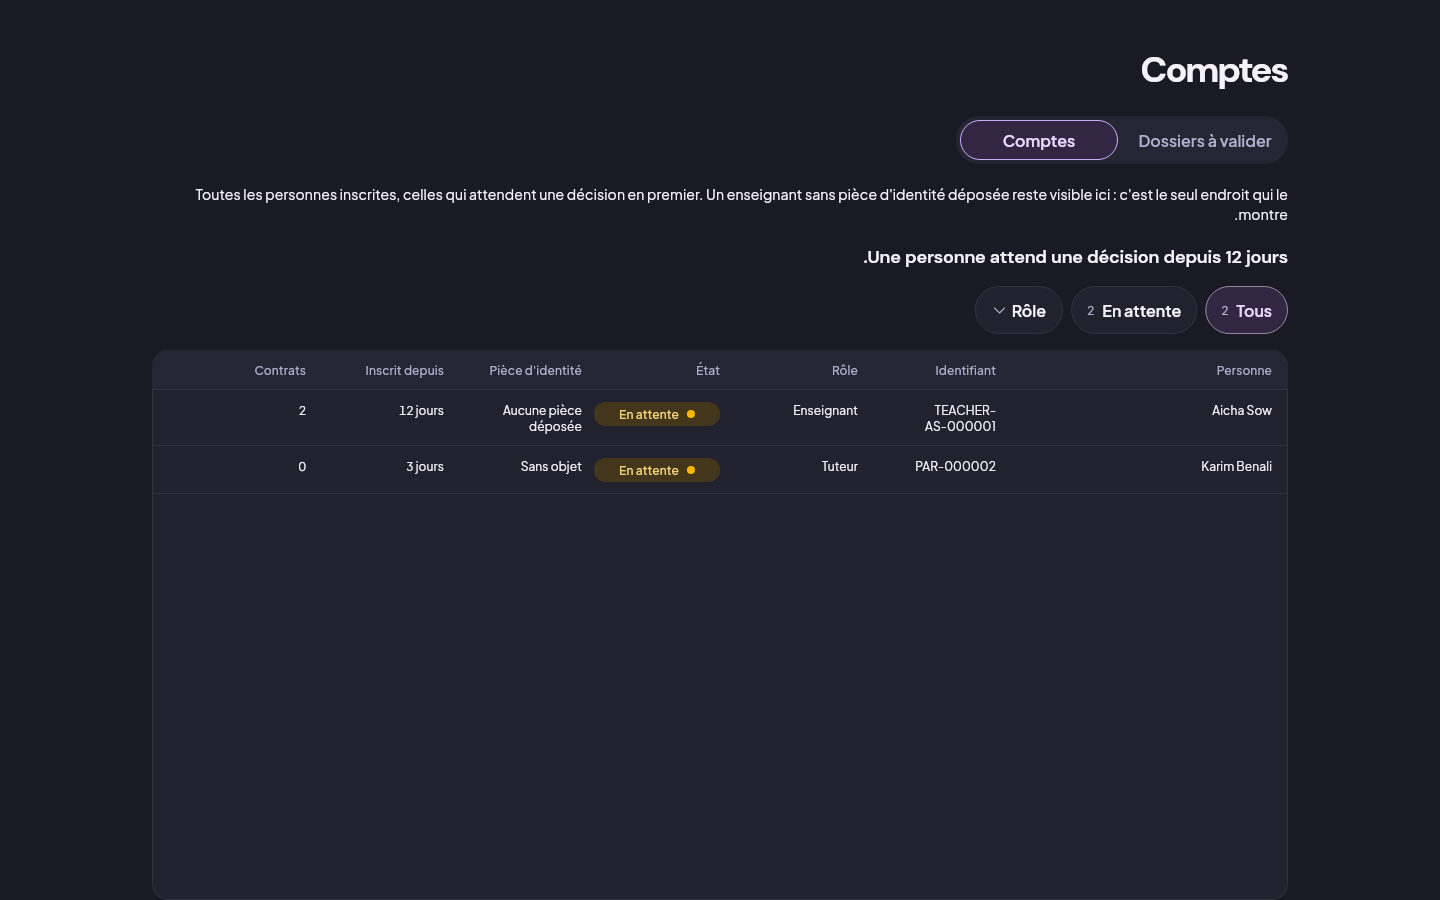
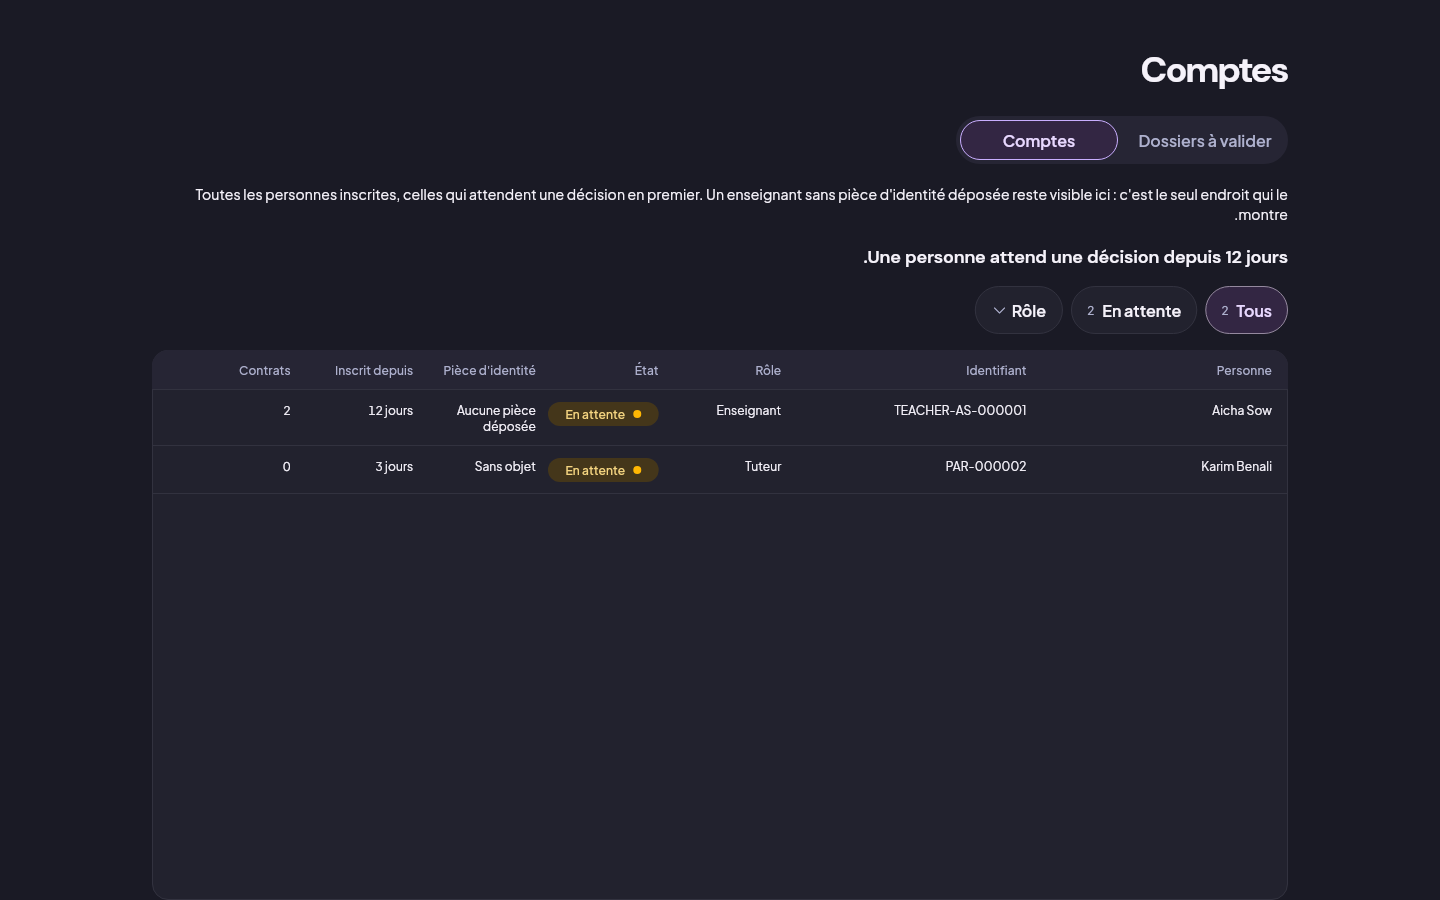
DUREE-INSECABLE-5 (reprise) : tableau replie en cartes a texte agrandi, captures et fiche
- DataCollection : a 150 % de texte et plus (AppGabarit.seuilTexteColonne),
  la collection se lit en cartes ; a 1440 px texte x2, le tableau coupait
  « Enseigna / nt » et tronquait ses en-tetes. Test qui echoue sur
  l'ancien code.
- Captures Comptes 1440 regenerees (identifiant sur une ligne) et
  nouvelle capture 1440 texte x2 sombre RTL ; script archive.
- Fiche : reprise de la relecture adverse, decisions par delegation le
  09/10 (DIR-REP-1).

Claude-Session: https://claude.ai/code/session_01T5oLMxAVmTuD5MY5MPupFc

diff --git a/test/capture/duree_insecable5_capture_test.dart b/test/capture/duree_insecable5_capture_test.dart
@@ -10,6 +10,11 @@
 // - Qualite, repliee en cartes dans le defilement de la page : 390 clair LTR
 //   et 320 texte x2 sombre RTL. Avant DUREE-INSECABLE-5, la page levait
 //   « Vertical viewport was given unbounded height » et ne montrait rien.
+// - Reprise : Comptes a 1440, l'identifiant « TEACHER-AS-000001 » tient sur
+//   une ligne (colonne de deux parts, pas de coupure a ses traits d'union
+//   tant qu'il tient). A 1440 texte x2 sombre RTL, la collection se replie
+//   en cartes : en tableau, « Enseigna / nt » se coupait et les en-tetes se
+//   tronquaient.
 import 'package:flutter/material.dart';
 import 'package:flutter_localizations/flutter_localizations.dart';
 import 'package:flutter_riverpod/flutter_riverpod.dart';
@@ -243,6 +248,28 @@ void main() {
             await capturer(tester, nom);
           });
         }
+      }
+
+      {
+        final _Vue v = _vue(1440, 900, 2, ThemeMode.dark, TextDirection.rtl);
+        final String nom = _nom('comptes_texte_agrandi', v);
+        testWidgets(nom, (WidgetTester tester) async {
+          fixerVueCapture(tester, Size(v.largeur, v.hauteur), 1);
+          await tester.pumpWidget(
+            _hote(
+              v,
+              ecran: const ComptesPage(),
+              surcharges: <Override>[
+                ..._comptes,
+                serviceReseauProvider.overrideWithValue(FauxServiceReseau()),
+              ],
+            ),
+          );
+          await stabiliser(tester);
+          expect(find.textContaining('TEACHER'), findsWidgets);
+          expect(tester.takeException(), isNull);
+          await capturer(tester, nom);
+        });
       }
 
       for (final _Vue v in <_Vue>[

diff --git a/test/accessibilite/duree_insecable_5_test.dart b/test/accessibilite/duree_insecable_5_test.dart
@@ -289,6 +289,24 @@ void main() {
     });
   }
 
+  // Reprise : a 1440 px et texte x2, le tableau coupait ses mots
+  // (« Enseigna / nt ») et tronquait ses en-tetes : il se replie en cartes.
+  testWidgets('Comptes, 1440 px, texte x2 : repliee en cartes, sans en-tete '
+      'de tableau', (WidgetTester tester) async {
+    tester.view.physicalSize = const Size(1440, 900);
+    tester.view.devicePixelRatio = 1;
+    tester.platformDispatcher.textScaleFactorTestValue = 2;
+    addTearDown(tester.view.reset);
+    addTearDown(tester.platformDispatcher.clearTextScaleFactorTestValue);
+    await tester.pumpWidget(
+      _hote(const ComptesPage(), _comptes, sens: TextDirection.rtl),
+    );
+    await tester.pumpAndSettle();
+    expect(tester.takeException(), isNull);
+    expect(find.text(t.admin.comptes.colonneIdentifiant), findsNothing);
+    expect(find.textContaining('TEACHER-AS-000001'), findsOneWidget);
+  });
+
   testWidgets('Qualite, 390 px : la collection repliee en cartes dans le '
       'defilement de la page s affiche (plus de hauteur non bornee)', (
     WidgetTester tester,

diff --git a/lib/core/widgets/data_collection.dart b/lib/core/widgets/data_collection.dart
@@ -146,7 +146,15 @@ class DataCollection<T> extends StatelessWidget {
   }
 
   Widget _construire(BuildContext context, {required bool integree}) {
-    final bool tableau = AppGabarit.de(context) == Gabarit.desktop;
+    // DUREE-INSECABLE-5 (reprise) : a texte agrandi (150 % et plus, le
+    // seuil des choix en colonnes), un tableau de sept colonnes coupait ses
+    // mots (« Enseigna / nt ») et tronquait ses en-tetes ; la collection se
+    // replie alors en cartes, comme sous le seuil desktop (decide par
+    // delegation le 09/10).
+    final bool tableau =
+        AppGabarit.de(context) == Gabarit.desktop &&
+        MediaQuery.textScalerOf(context).scale(16) / 16 <
+            AppGabarit.seuilTexteColonne;
 
     if (!tableau) {
       return _Defilement<T>(

diff --git a/docs/current/REVUE-DIRECTEUR-2026-10.md b/docs/current/REVUE-DIRECTEUR-2026-10.md
@@ -474,3 +474,16 @@ Décidé par délégation le 09/10 (DIR-REP-1) :
 - la garde, prudente, signale toute valeur ancrée ajoutée à une collection ou écrite dans un tampon, même si elle en serait la première ;
 - aucun libellé nouveau ni modifié.
 Recensé, non repris ici (hors du périmètre de l'étape) : le zoom « 150 % » de `tc_mushaf` reste sécable (zone interdite, déjà consigné par DUREE-INSECABLE-4) ; dans les tableaux d'administration en RTL avec des données françaises, le point final d'un nom (« Sofia B. ») et des descriptions se place au début (« .Sofia B »), comme ailleurs avant COUPE-MOTS-3b (relevé sur les captures sombres RTL).
+
+### DUREE-INSECABLE-5, reprise (09/10/2026) : relecture adverse refusée, quatre points levés
+- **Garde indépendante du nom et du type écrit** (`test/support/garde_ancres.dart`, `_suivreChamp`, `_peutEtre`) : un champ (`ColonneDonnees.texte`, `Seance.duree`) est suivi à toutes ses lectures `objet.champ`, quel que soit le nom de l'objet. Le type de l'objet est lu s'il est écrit, sinon déduit de ce qui le donne : variable inférée (`final col = colonne;`, `final c = colonnes().first;`), boucle `for-in` non typée, paramètre de lambda non typé (type du récepteur du `.map(`), type rendu d'une fonction d'un autre fichier, champ d'un autre objet. Un type écrit d'une autre classe écarte la lecture (pas de faux positif sur un autre champ du même nom) ; un type introuvable la garde quand le fichier nomme la classe.
+- **Valeur rangée par affectation** : `s.duree = valeurSeule(…)`, `this.duree = …`, `duree = …` dans la classe qui déclare le champ, puis relue en interpolation : relevée. La classe de `s` est lue sur son type (paramètre typé, `final s = Seance()`), sinon le champ est suivi dans le fichier.
+- **Identifiant coupé à 1440 px RTL** (`TEACHER- / AS-000001`, défaut antérieur au lot) : la colonne Identifiant de Comptes prend deux parts, et `ColonneDonnees.insecable` empêche la coupure aux traits d'union tant que la valeur tient dans sa cellule (gluon U+2060 à l'affichage seulement ; libellé parlé intact). En la vérifiant à texte ×2, un autre défaut est apparu : à 1440 px texte ×2, le tableau coupait ses mots (« Enseigna / nt ») et tronquait ses en-têtes. `DataCollection` se replie désormais en cartes dès 150 % de texte (seuil existant `AppGabarit.seuilTexteColonne`), comme sous le seuil desktop.
+- **Suite complète par dossier** : passée par le rédacteur, `--concurrency=2`, résultats ci-dessous.
+Preuves : `test/accessibilite/duree_insecable_5_test.dart`, groupe 3 : sur une copie de `data_collection.dart`, les défauts V3b (variable inférée), V5 (`for-in`) et V4b (lambda jointe par « · ») font échouer la garde sur `lib/` entier, chacun avec deux noms jamais déclarés ailleurs (`col`, `qz7`) ; fixtures R, R2, E, L1, L2 et un second fichier qui ne nomme pas la classe (6 fautes attendues, trouvées) ; `Autre.texte` au type écrit n'est pas suivi. Les 7 tests échouent sur la garde précédente (contre-épreuve faite). Comptes à 1440 px LTR et RTL : l'identifiant a la hauteur d'une ligne et le libellé parlé « Identifiant : TEACHER-AS-000001 » (échoue sur l'ancien code : 32 px au lieu de 16). Comptes à 1440 px texte ×2 : plus d'en-tête de tableau (échoue sur l'ancien code). Mutations hors test, toutes relevées par la garde : V3b, V5, V4b, V4c (`StringBuffer` dans une boucle sur les colonnes). Captures régénérées : `comptes_tableau_1440x1_*` (identifiant sur une ligne), nouvelle `comptes_texte_agrandi_1440x2_dark_rtl.png` (cartes). Statut : présent dans le code, testé localement ; ni staging ni déploiement.
+Décidé par délégation le 09/10 (DIR-REP-1) :
+- une lecture dont l'objet a un type introuvable est suivie quand le fichier nomme la classe (option prudente) ; une lecture dont le type écrit est une autre classe ne l'est pas (sans quoi la garde relevait des centaines de faux positifs sur `lib/` et ne servait plus) ;
+- l'identifiant prend deux parts de largeur, et ne se coupe à ses traits d'union que s'il ne tient pas entier (jamais au milieu d'un mot) ;
+- au-delà de 150 % de texte, toute collection `DataCollection` se lit en cartes ;
+- aucun libellé nouveau ni modifié.
+Recensé, non repris : le zoom « 150 % » de `tc_mushaf` (zone interdite) ; le point final des phrases françaises placé en tête en RTL sur les captures (« .montre »), artefact d'un texte français rendu en sens RTL, déjà consigné.
